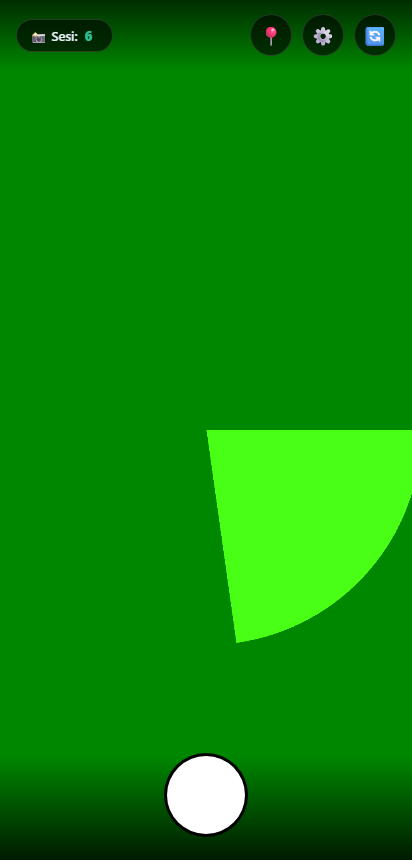
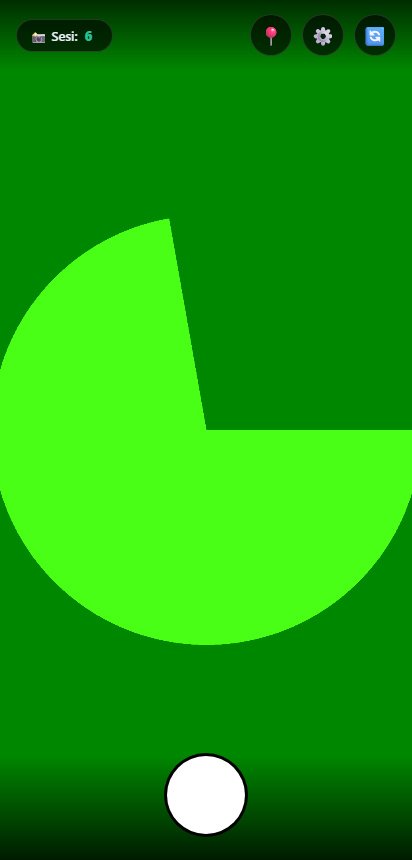
v2.3: EXIF geotagging + tap-to-Maps, with toggle
- Write GPS into photo EXIF (androidx ExifInterface, IS_PENDING flow on API29+) so the
  saved file opens to a map in Google Photos/gallery; toggle in settings (default on)
- In-app preview Maps link fires a native geo intent (openMaps bridge); web falls back
  to maps.google.com; position locked at shutter time
- Coordinates passed to native savePhoto(dataUrl, name, lat, lon)
- Android versionName 2.3 / versionCode 5; release-signed
- Tests: 45 functional (incl. EXIF toggle + Maps link) + 21 stress, all green

Changed region(s): [[0.0, 0.2419, 0.5825, 0.7558]]

diff --git a/android/app/src/main/assets/index.html b/android/app/src/main/assets/index.html
@@ -88,6 +88,9 @@
     color:var(--txt);font-size:18px;padding:14px 14px;outline:none}
   #nameInput:focus{border-color:var(--accent)}
   .ext{display:flex;align-items:center;color:var(--muted);font-size:15px;padding:0 4px}
+  #mapsLink{display:none;margin-top:10px;color:#5aa9ff;font-size:14px;font-weight:600;
+    text-decoration:none;align-items:center;gap:6px}
+  #mapsLink.show{display:inline-flex}
   #suggestRow{display:flex;gap:8px;flex-wrap:wrap;margin-top:12px}
   .chip{background:#0e1320;border:1px solid var(--line);color:var(--txt);font-size:13px;
     padding:8px 12px;border-radius:999px}
@@ -166,6 +169,7 @@
                autocomplete="off" autocapitalize="off" spellcheck="false">
         <span class="ext">.jpg</span>
       </div>
+      <a id="mapsLink">📍 Lihat lokasi di Google Maps</a>
       <div id="suggestRow"></div>
       <div class="btnrow">
         <button class="btn retake" id="retakeBtn">↩ Ulang</button>
@@ -181,7 +185,9 @@
 
       <div class="setHead">📍 Stempel Lokasi</div>
       <label class="wmRow"><input type="checkbox" id="gpsOnCb"> Stempel lokasi GPS + tanggal/jam di foto</label>
-      <div class="setNote">Koordinat &amp; waktu jalan offline. Alamat &amp; peta cuma muncul kalau ada sinyal.</div>
+      <label class="wmRow"><input type="checkbox" id="exifOnCb"> Tanam koordinat ke file (EXIF) — bisa dibuka di Maps lewat Galeri</label>
+      <div class="setNote">Koordinat &amp; waktu jalan offline. Alamat &amp; peta cuma muncul kalau ada sinyal.
+        EXIF = lokasi nempel di file foto (hati-hati kalau share foto mentah ke luar).</div>
 
       <hr class="setDiv">
       <div class="setHead">🏷️ Watermark Logo</div>
@@ -284,7 +290,7 @@ async function startCam(){
     $('#start').style.display='none';
     checkTorch();
     initCamControls();
-    if(gpsOn) startGeo();
+    if(gpsOn || exifOn) startGeo();
   }catch(e){
     $('#startErr').textContent='Kamera ga bisa dibuka: '+e.message+
       '. Pastikan izin kamera diizinkan.';
@@ -456,13 +462,15 @@ $('#wmDel').onclick   = ()=>{ wmImg=null; localStorage.removeItem('so_logo');
 loadWmFromStore();
 
 /* ---------- GPS + date/time stamp (v2.2) ---------- */
-const gpsBtn=$('#gpsBtn'), gpsOnCb=$('#gpsOnCb');
+const gpsBtn=$('#gpsBtn'), gpsOnCb=$('#gpsOnCb'), exifOnCb=$('#exifOnCb'), mapsLink=$('#mapsLink');
 let gpsOn = localStorage.getItem('so_gps_on')==='1';
-let lastPos=null, lastAddr='', geoWatch=null, lastGeoKey='';
+let exifOn = localStorage.getItem('so_exif_on')!=='0';   // default ON
+let lastPos=null, lastAddr='', geoWatch=null, lastGeoKey='', shotPos=null;
 
 function reflectGps(){
   gpsBtn.classList.toggle('on', gpsOn);
   gpsOnCb.checked = gpsOn;
+  exifOnCb.checked = exifOn;
 }
 function setGps(on){
   gpsOn=on; localStorage.setItem('so_gps_on', on?'1':'0'); reflectGps();
@@ -470,7 +478,19 @@ function setGps(on){
 }
 gpsBtn.onclick = ()=>setGps(!gpsOn);
 gpsOnCb.addEventListener('change', ()=>setGps(gpsOnCb.checked));
+exifOnCb.addEventListener('change', ()=>{
+  exifOn=exifOnCb.checked; localStorage.setItem('so_exif_on', exifOn?'1':'0');
+  if(exifOn) startGeo();
+  showToast('Koordinat ke file (EXIF): '+(exifOn?'ON':'OFF'));
+});
 reflectGps();
+
+// buka lokasi di Maps (native intent kalau di APK, else tab baru)
+function openMapsAt(lat, lon){
+  if(window.AndroidSaver && window.AndroidSaver.openMaps){ window.AndroidSaver.openMaps(String(lat), String(lon)); }
+  else window.open('https://www.google.com/maps?q='+lat+','+lon, '_blank');
+}
+mapsLink.onclick = (e)=>{ e.preventDefault(); if(shotPos) openMapsAt(shotPos.coords.latitude, shotPos.coords.longitude); };
 
 function startGeo(){
   if(geoWatch!=null || !navigator.geolocation) return;
@@ -601,6 +621,7 @@ $('#shutter').onclick = ()=>{
   }
   const w=video.videoWidth, h=video.videoHeight;
   if(!w){ showToast('Kamera belum siap'); return; }
+  shotPos = lastPos;   // kunci titik GPS saat jepret (buat stempel/EXIF/Maps)
   shot.width=w; shot.height=h;
   const ctx=shot.getContext('2d');
   if(zoomMode==='digital' && curZoom>1){
@@ -656,6 +677,8 @@ function openSheet(){
   sheet.classList.add('open');
   nameInput.value = suggestName();
   buildChips();
+  // tampilkan tombol Maps kalau foto ini punya titik GPS
+  mapsLink.classList.toggle('show', !!shotPos);
   // Focus SINKRON dalam gesture tap shutter -> keyboard mobile muncul otomatis.
   nameInput.focus(); nameInput.select();
 }
@@ -684,7 +707,9 @@ $('#saveBtn').onclick = ()=>{
   // Di dalam APK (WebView) blob download ga jalan -> lewat jembatan native ke Pictures/SnapName.
   // Di browser biasa -> tetap pakai <a download> ke folder Download.
   if(window.AndroidSaver && window.AndroidSaver.savePhoto){
-    try{ window.AndroidSaver.savePhoto(shot.toDataURL('image/jpeg',0.92), finalName+'.jpg'); }
+    const la = (exifOn && shotPos) ? String(shotPos.coords.latitude)  : '';
+    const lo = (exifOn && shotPos) ? String(shotPos.coords.longitude) : '';
+    try{ window.AndroidSaver.savePhoto(shot.toDataURL('image/jpeg',0.92), finalName+'.jpg', la, lo); }
     catch(e){ showToast('Gagal simpan: '+e.message); return; }
   } else {
     const a=document.createElement('a');

diff --git a/index.html b/index.html
@@ -88,6 +88,9 @@
     color:var(--txt);font-size:18px;padding:14px 14px;outline:none}
   #nameInput:focus{border-color:var(--accent)}
   .ext{display:flex;align-items:center;color:var(--muted);font-size:15px;padding:0 4px}
+  #mapsLink{display:none;margin-top:10px;color:#5aa9ff;font-size:14px;font-weight:600;
+    text-decoration:none;align-items:center;gap:6px}
+  #mapsLink.show{display:inline-flex}
   #suggestRow{display:flex;gap:8px;flex-wrap:wrap;margin-top:12px}
   .chip{background:#0e1320;border:1px solid var(--line);color:var(--txt);font-size:13px;
     padding:8px 12px;border-radius:999px}
@@ -166,6 +169,7 @@
                autocomplete="off" autocapitalize="off" spellcheck="false">
         <span class="ext">.jpg</span>
       </div>
+      <a id="mapsLink">📍 Lihat lokasi di Google Maps</a>
       <div id="suggestRow"></div>
       <div class="btnrow">
         <button class="btn retake" id="retakeBtn">↩ Ulang</button>
@@ -181,7 +185,9 @@
 
       <div class="setHead">📍 Stempel Lokasi</div>
       <label class="wmRow"><input type="checkbox" id="gpsOnCb"> Stempel lokasi GPS + tanggal/jam di foto</label>
-      <div class="setNote">Koordinat &amp; waktu jalan offline. Alamat &amp; peta cuma muncul kalau ada sinyal.</div>
+      <label class="wmRow"><input type="checkbox" id="exifOnCb"> Tanam koordinat ke file (EXIF) — bisa dibuka di Maps lewat Galeri</label>
+      <div class="setNote">Koordinat &amp; waktu jalan offline. Alamat &amp; peta cuma muncul kalau ada sinyal.
+        EXIF = lokasi nempel di file foto (hati-hati kalau share foto mentah ke luar).</div>
 
       <hr class="setDiv">
       <div class="setHead">🏷️ Watermark Logo</div>
@@ -284,7 +290,7 @@ async function startCam(){
     $('#start').style.display='none';
     checkTorch();
     initCamControls();
-    if(gpsOn) startGeo();
+    if(gpsOn || exifOn) startGeo();
   }catch(e){
     $('#startErr').textContent='Kamera ga bisa dibuka: '+e.message+
       '. Pastikan izin kamera diizinkan.';
@@ -456,13 +462,15 @@ $('#wmDel').onclick   = ()=>{ wmImg=null; localStorage.removeItem('so_logo');
 loadWmFromStore();
 
 /* ---------- GPS + date/time stamp (v2.2) ---------- */
-const gpsBtn=$('#gpsBtn'), gpsOnCb=$('#gpsOnCb');
+const gpsBtn=$('#gpsBtn'), gpsOnCb=$('#gpsOnCb'), exifOnCb=$('#exifOnCb'), mapsLink=$('#mapsLink');
 let gpsOn = localStorage.getItem('so_gps_on')==='1';
-let lastPos=null, lastAddr='', geoWatch=null, lastGeoKey='';
+let exifOn = localStorage.getItem('so_exif_on')!=='0';   // default ON
+let lastPos=null, lastAddr='', geoWatch=null, lastGeoKey='', shotPos=null;
 
 function reflectGps(){
   gpsBtn.classList.toggle('on', gpsOn);
   gpsOnCb.checked = gpsOn;
+  exifOnCb.checked = exifOn;
 }
 function setGps(on){
   gpsOn=on; localStorage.setItem('so_gps_on', on?'1':'0'); reflectGps();
@@ -470,7 +478,19 @@ function setGps(on){
 }
 gpsBtn.onclick = ()=>setGps(!gpsOn);
 gpsOnCb.addEventListener('change', ()=>setGps(gpsOnCb.checked));
+exifOnCb.addEventListener('change', ()=>{
+  exifOn=exifOnCb.checked; localStorage.setItem('so_exif_on', exifOn?'1':'0');
+  if(exifOn) startGeo();
+  showToast('Koordinat ke file (EXIF): '+(exifOn?'ON':'OFF'));
+});
 reflectGps();
+
+// buka lokasi di Maps (native intent kalau di APK, else tab baru)
+function openMapsAt(lat, lon){
+  if(window.AndroidSaver && window.AndroidSaver.openMaps){ window.AndroidSaver.openMaps(String(lat), String(lon)); }
+  else window.open('https://www.google.com/maps?q='+lat+','+lon, '_blank');
+}
+mapsLink.onclick = (e)=>{ e.preventDefault(); if(shotPos) openMapsAt(shotPos.coords.latitude, shotPos.coords.longitude); };
 
 function startGeo(){
   if(geoWatch!=null || !navigator.geolocation) return;
@@ -601,6 +621,7 @@ $('#shutter').onclick = ()=>{
   }
   const w=video.videoWidth, h=video.videoHeight;
   if(!w){ showToast('Kamera belum siap'); return; }
+  shotPos = lastPos;   // kunci titik GPS saat jepret (buat stempel/EXIF/Maps)
   shot.width=w; shot.height=h;
   const ctx=shot.getContext('2d');
   if(zoomMode==='digital' && curZoom>1){
@@ -656,6 +677,8 @@ function openSheet(){
   sheet.classList.add('open');
   nameInput.value = suggestName();
   buildChips();
+  // tampilkan tombol Maps kalau foto ini punya titik GPS
+  mapsLink.classList.toggle('show', !!shotPos);
   // Focus SINKRON dalam gesture tap shutter -> keyboard mobile muncul otomatis.
   nameInput.focus(); nameInput.select();
 }
@@ -684,7 +707,9 @@ $('#saveBtn').onclick = ()=>{
   // Di dalam APK (WebView) blob download ga jalan -> lewat jembatan native ke Pictures/SnapName.
   // Di browser biasa -> tetap pakai <a download> ke folder Download.
   if(window.AndroidSaver && window.AndroidSaver.savePhoto){
-    try{ window.AndroidSaver.savePhoto(shot.toDataURL('image/jpeg',0.92), finalName+'.jpg'); }
+    const la = (exifOn && shotPos) ? String(shotPos.coords.latitude)  : '';
+    const lo = (exifOn && shotPos) ? String(shotPos.coords.longitude) : '';
+    try{ window.AndroidSaver.savePhoto(shot.toDataURL('image/jpeg',0.92), finalName+'.jpg', la, lo); }
     catch(e){ showToast('Gagal simpan: '+e.message); return; }
   } else {
     const a=document.createElement('a');

diff --git a/android/app/src/main/java/com/stockopname/snapname/SaverBridge.java b/android/app/src/main/java/com/stockopname/snapname/SaverBridge.java
@@ -3,13 +3,17 @@ package com.stockopname.snapname;
 import android.app.Activity;
 import android.content.ContentValues;
 import android.content.Context;
+import android.content.Intent;
 import android.net.Uri;
 import android.os.Build;
 import android.os.Environment;
+import android.os.ParcelFileDescriptor;
 import android.provider.MediaStore;
 import android.util.Base64;
 import android.webkit.JavascriptInterface;
 import android.widget.Toast;
+
+import androidx.exifinterface.media.ExifInterface;
 
 import java.io.File;
 import java.io.FileOutputStream;
@@ -19,8 +23,9 @@ import java.util.Date;
 import java.util.Locale;
 
 /**
- * Saves photos (JPEG) into Pictures/SnapName/<yyyy-MM-dd> and CSV logs into
- * Documents/SnapName. Works fully offline.
+ * Saves photos (JPEG) into Pictures/SnapName/<yyyy-MM-dd>, optionally embedding GPS into
+ * EXIF; saves CSV logs into Documents/SnapName; opens a coordinate in a maps app.
+ * Works fully offline (GPS coords are satellite-based; only viewing a map needs internet).
  */
 public class SaverBridge {
 
@@ -33,24 +38,43 @@ public class SaverBridge {
     }
 
     @JavascriptInterface
-    public void savePhoto(String dataUrl, String name) {
+    public void savePhoto(String dataUrl, String name, String lat, String lon) {
         try {
             int comma = dataUrl.indexOf(',');
             String b64 = comma >= 0 ? dataUrl.substring(comma + 1) : dataUrl;
             byte[] bytes = Base64.decode(b64, Base64.DEFAULT);
-            String sub = "SnapName/" + today();   // folder otomatis per tanggal
+            String sub = "SnapName/" + today();
+
+            boolean hasGeo = lat != null && !lat.isEmpty() && lon != null && !lon.isEmpty();
+            double dlat = 0, dlon = 0;
+            if (hasGeo) {
+                try { dlat = Double.parseDouble(lat); dlon = Double.parseDouble(lon); }
+                catch (Exception e) { hasGeo = false; }
+            }
 
             if (Build.VERSION.SDK_INT >= 29) {
                 ContentValues v = new ContentValues();
                 v.put(MediaStore.Images.Media.DISPLAY_NAME, name);
                 v.put(MediaStore.Images.Media.MIME_TYPE, "image/jpeg");
-                v.put(MediaStore.Images.Media.RELATIVE_PATH,
-                        Environment.DIRECTORY_PICTURES + "/" + sub);
+                v.put(MediaStore.Images.Media.RELATIVE_PATH, Environment.DIRECTORY_PICTURES + "/" + sub);
+                v.put(MediaStore.Images.Media.IS_PENDING, 1);
                 Uri uri = ctx.getContentResolver()
                         .insert(MediaStore.Images.Media.EXTERNAL_CONTENT_URI, v);
                 if (uri == null) { toast("Gagal bikin file"); return; }
                 OutputStream os = ctx.getContentResolver().openOutputStream(uri);
                 os.write(bytes); os.flush(); os.close();
+                if (hasGeo) {
+                    try {
+                        ParcelFileDescriptor pfd = ctx.getContentResolver().openFileDescriptor(uri, "rw");
+                        ExifInterface exif = new ExifInterface(pfd.getFileDescriptor());
+                        exif.setLatLong(dlat, dlon);
+                        exif.saveAttributes();
+                        pfd.close();
+                    } catch (Exception ex) { /* EXIF opsional */ }
+                }
+                ContentValues done = new ContentValues();
+                done.put(MediaStore.Images.Media.IS_PENDING, 0);
+                ctx.getContentResolver().update(uri, done, null, null);
             } else {
                 File dir = new File(
                         Environment.getExternalStoragePublicDirectory(Environment.DIRECTORY_PICTURES), sub);
@@ -58,8 +82,15 @@ public class SaverBridge {
                 File f = new File(dir, name);
                 FileOutputStream fos = new FileOutputStream(f);
                 fos.write(bytes); fos.flush(); fos.close();
+                if (hasGeo) {
+                    try {
+                        ExifInterface exif = new ExifInterface(f.getAbsolutePath());
+                        exif.setLatLong(dlat, dlon);
+                        exif.saveAttributes();
+                    } catch (Exception ex) { /* EXIF opsional */ }
+                }
             }
-            toast("Tersimpan ke Pictures/" + sub);
+            toast("Tersimpan ke Pictures/" + sub + (hasGeo ? "  📍" : ""));
         } catch (Exception e) {
             toast("Gagal simpan: " + e.getMessage());
         }
@@ -74,8 +105,7 @@ public class SaverBridge {
                 ContentValues v = new ContentValues();
                 v.put(MediaStore.MediaColumns.DISPLAY_NAME, name);
                 v.put(MediaStore.MediaColumns.MIME_TYPE, "text/csv");
-                v.put(MediaStore.MediaColumns.RELATIVE_PATH,
-                        Environment.DIRECTORY_DOCUMENTS + "/SnapName");
+                v.put(MediaStore.MediaColumns.RELATIVE_PATH, Environment.DIRECTORY_DOCUMENTS + "/SnapName");
                 Uri uri = ctx.getContentResolver()
                         .insert(MediaStore.Files.getContentUri("external"), v);
                 if (uri == null) { toast("Gagal bikin CSV"); return; }
@@ -92,6 +122,24 @@ public class SaverBridge {
             toast("CSV tersimpan ke Documents/SnapName");
         } catch (Exception e) {
             toast("Gagal simpan CSV: " + e.getMessage());
+        }
+    }
+
+    /** Buka koordinat di aplikasi peta (Google Maps / browser). */
+    @JavascriptInterface
+    public void openMaps(String lat, String lon) {
+        try {
+            Intent i = new Intent(Intent.ACTION_VIEW,
+                    Uri.parse("geo:" + lat + "," + lon + "?q=" + lat + "," + lon + "(Foto)"));
+            i.addFlags(Intent.FLAG_ACTIVITY_NEW_TASK);
+            if (i.resolveActivity(ctx.getPackageManager()) == null) {
+                i = new Intent(Intent.ACTION_VIEW,
+                        Uri.parse("https://www.google.com/maps?q=" + lat + "," + lon));
+                i.addFlags(Intent.FLAG_ACTIVITY_NEW_TASK);
+            }
+            ctx.startActivity(i);
+        } catch (Exception e) {
+            toast("Ga bisa buka Maps: " + e.getMessage());
         }
     }
 

diff --git a/qa_test.py b/qa_test.py
@@ -193,7 +193,10 @@ with sync_playwright() as p:
         time.sleep(0.05)
     check("geolocation fix received (works offline)", gp)
     check("gps stamp enabled", page.evaluate("gpsOn")==True)
+    check("EXIF coords default ON", page.evaluate("exifOn")==True)
     page.click("#shutter"); page.wait_for_selector("#sheet.open", timeout=3000)
+    check("Maps link shown on geotagged photo", "show" in (page.get_attribute("#mapsLink","class") or ""))
+    check("shotPos captured at shutter", page.evaluate("!!shotPos"))
     page.fill("#nameInput","GPS-TEST")
     with page.expect_download(timeout=4000) as gdl:
         page.click("#saveBtn")

diff --git a/README.md b/README.md
@@ -63,6 +63,10 @@ present it runs as the full offline app; on `*.github.io` it runs as a capped de
 - 🗂️ **Auto folder per day** (v2.2) — photos land in `Pictures/SnapName/YYYY-MM-DD/`
 - 📋 **CSV photo log** (v2.2) — every shot is logged (filename, time, lat/long, address) and
   exportable to a CSV for audit/rekap
+- 🗺️ **EXIF geotagging + tap-to-Maps** (v2.3) — GPS coordinates are written into each photo's
+  EXIF (toggleable) so the file opens to a map in Google Photos/gallery; the in-app preview
+  has a "Lihat di Maps" link that fires a native `geo:` intent. Coordinates are captured at
+  shutter time and persist with the photo
 - 🔦 Torch toggle (when supported), front/back camera flip
 - 🧼 Filename sanitisation (illegal characters, length cap for Android filesystems)
 - 📴 Works in airplane mode; installable to the home screen as a PWA